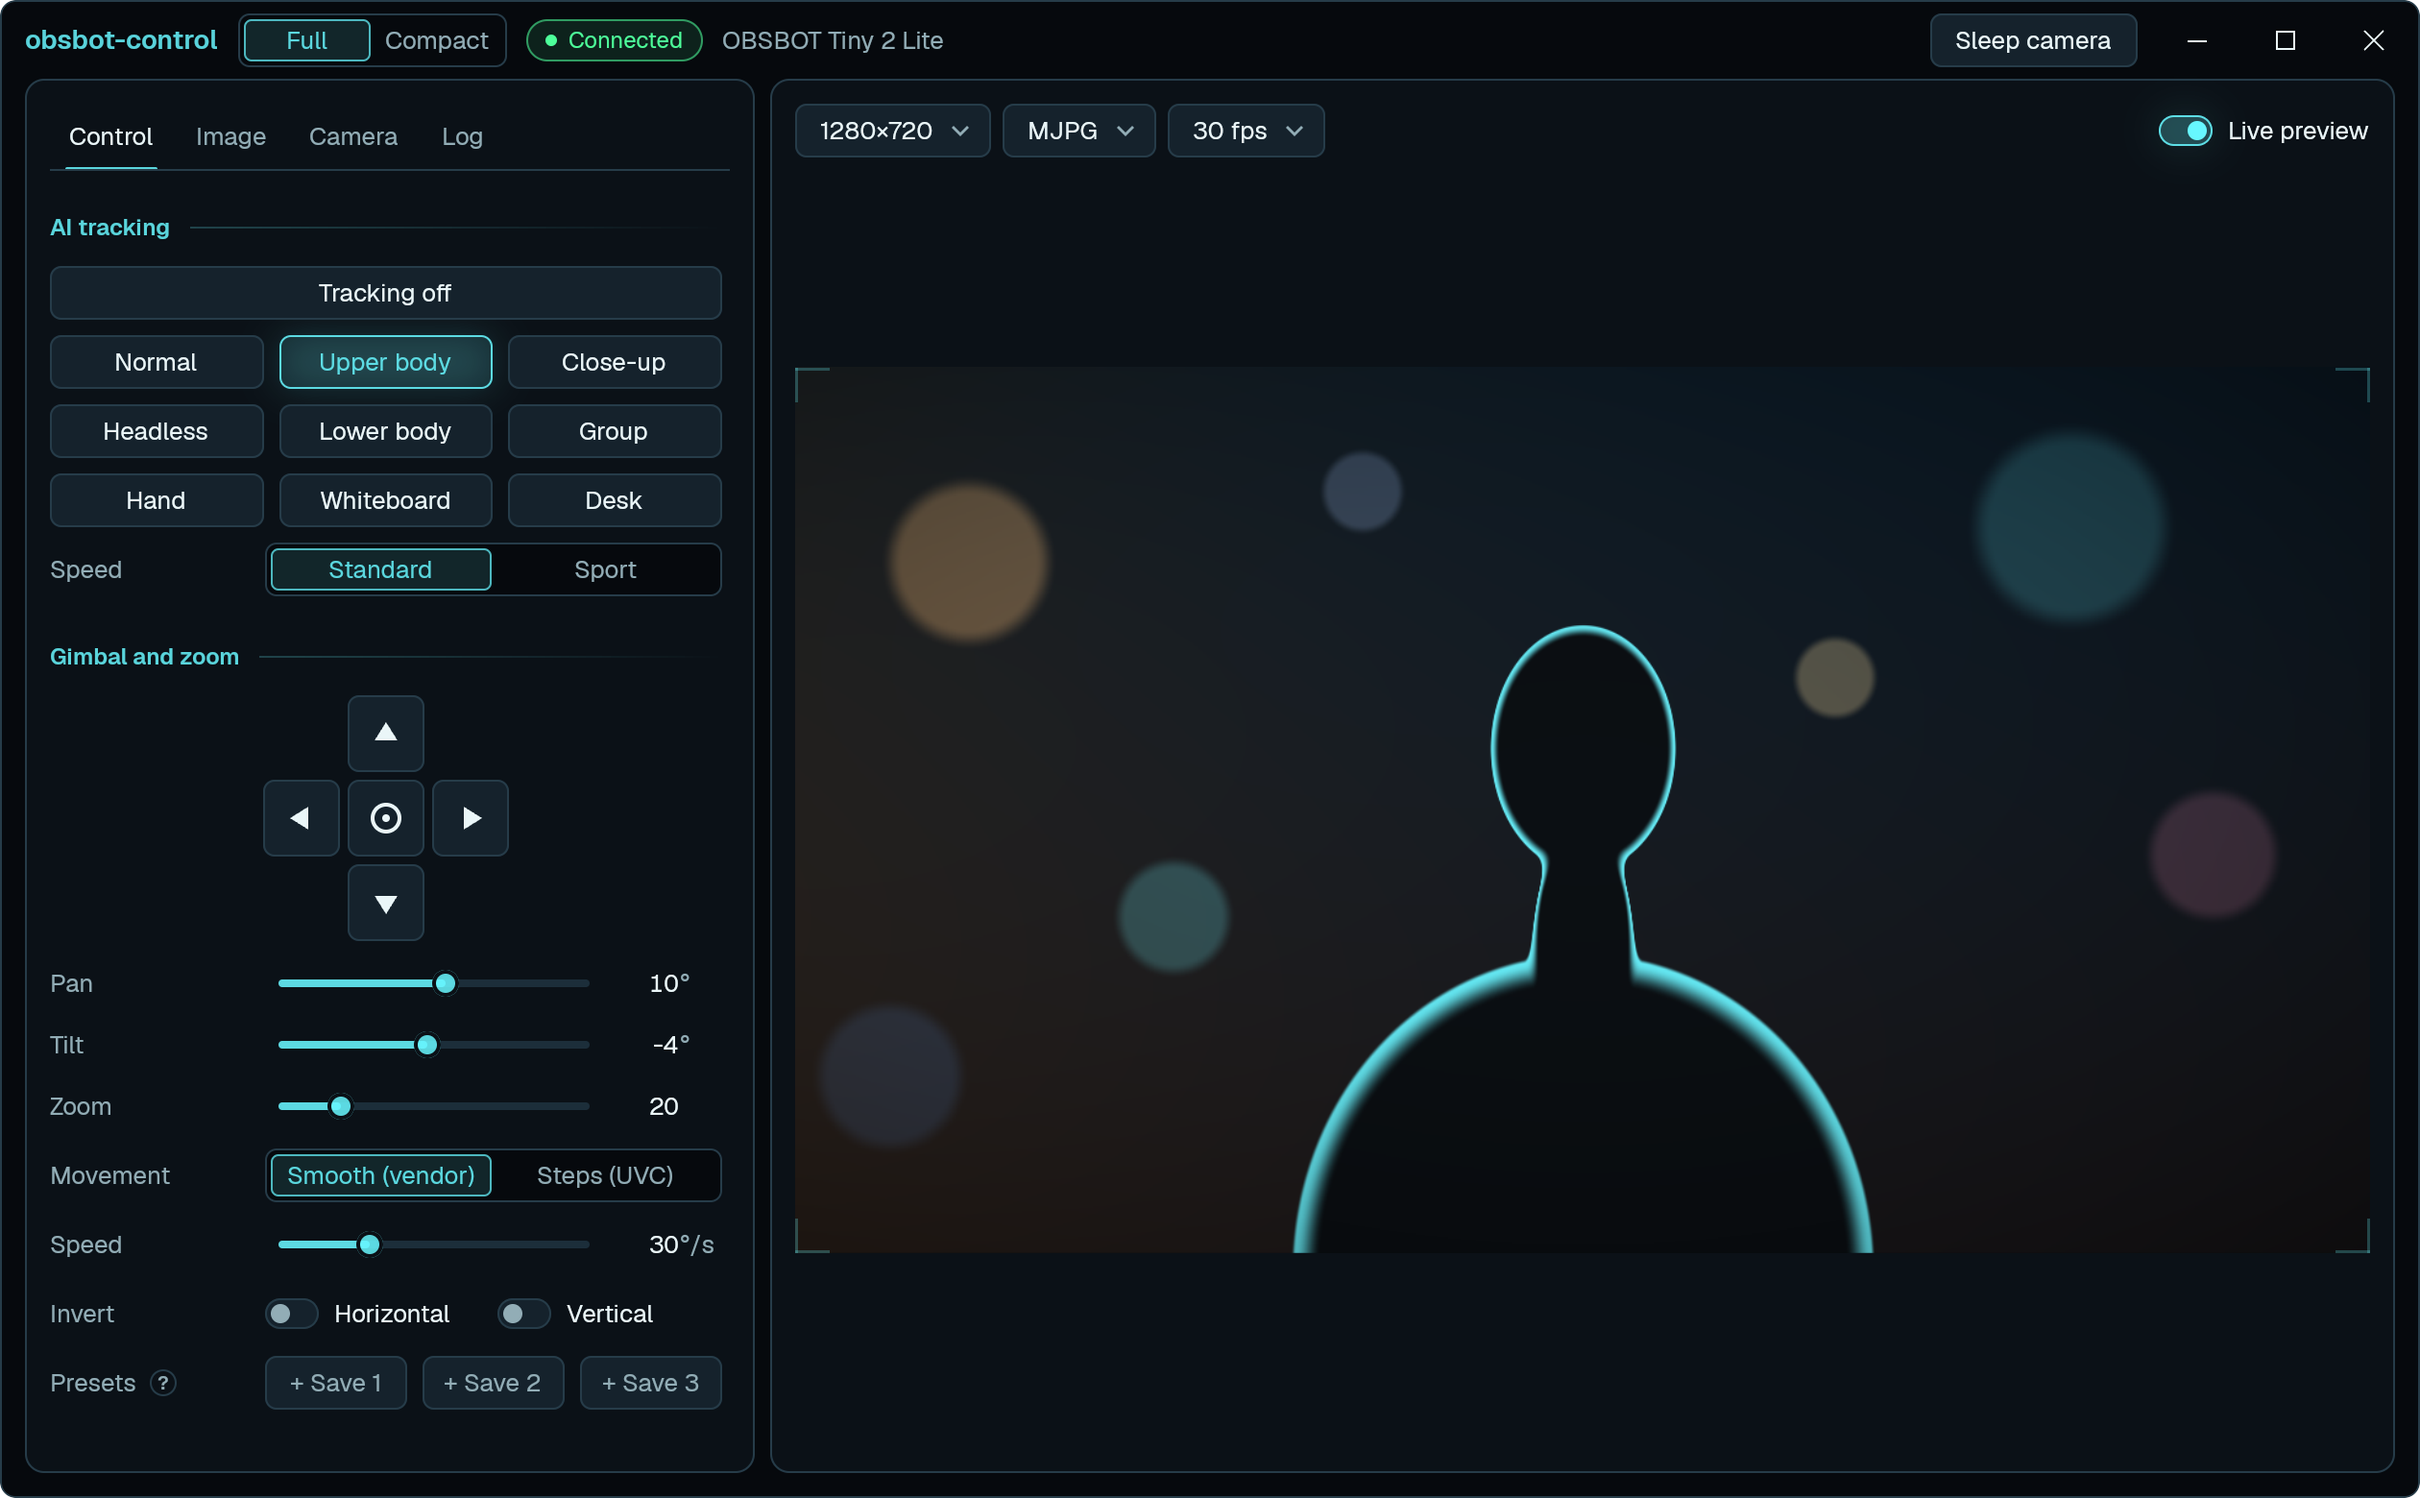
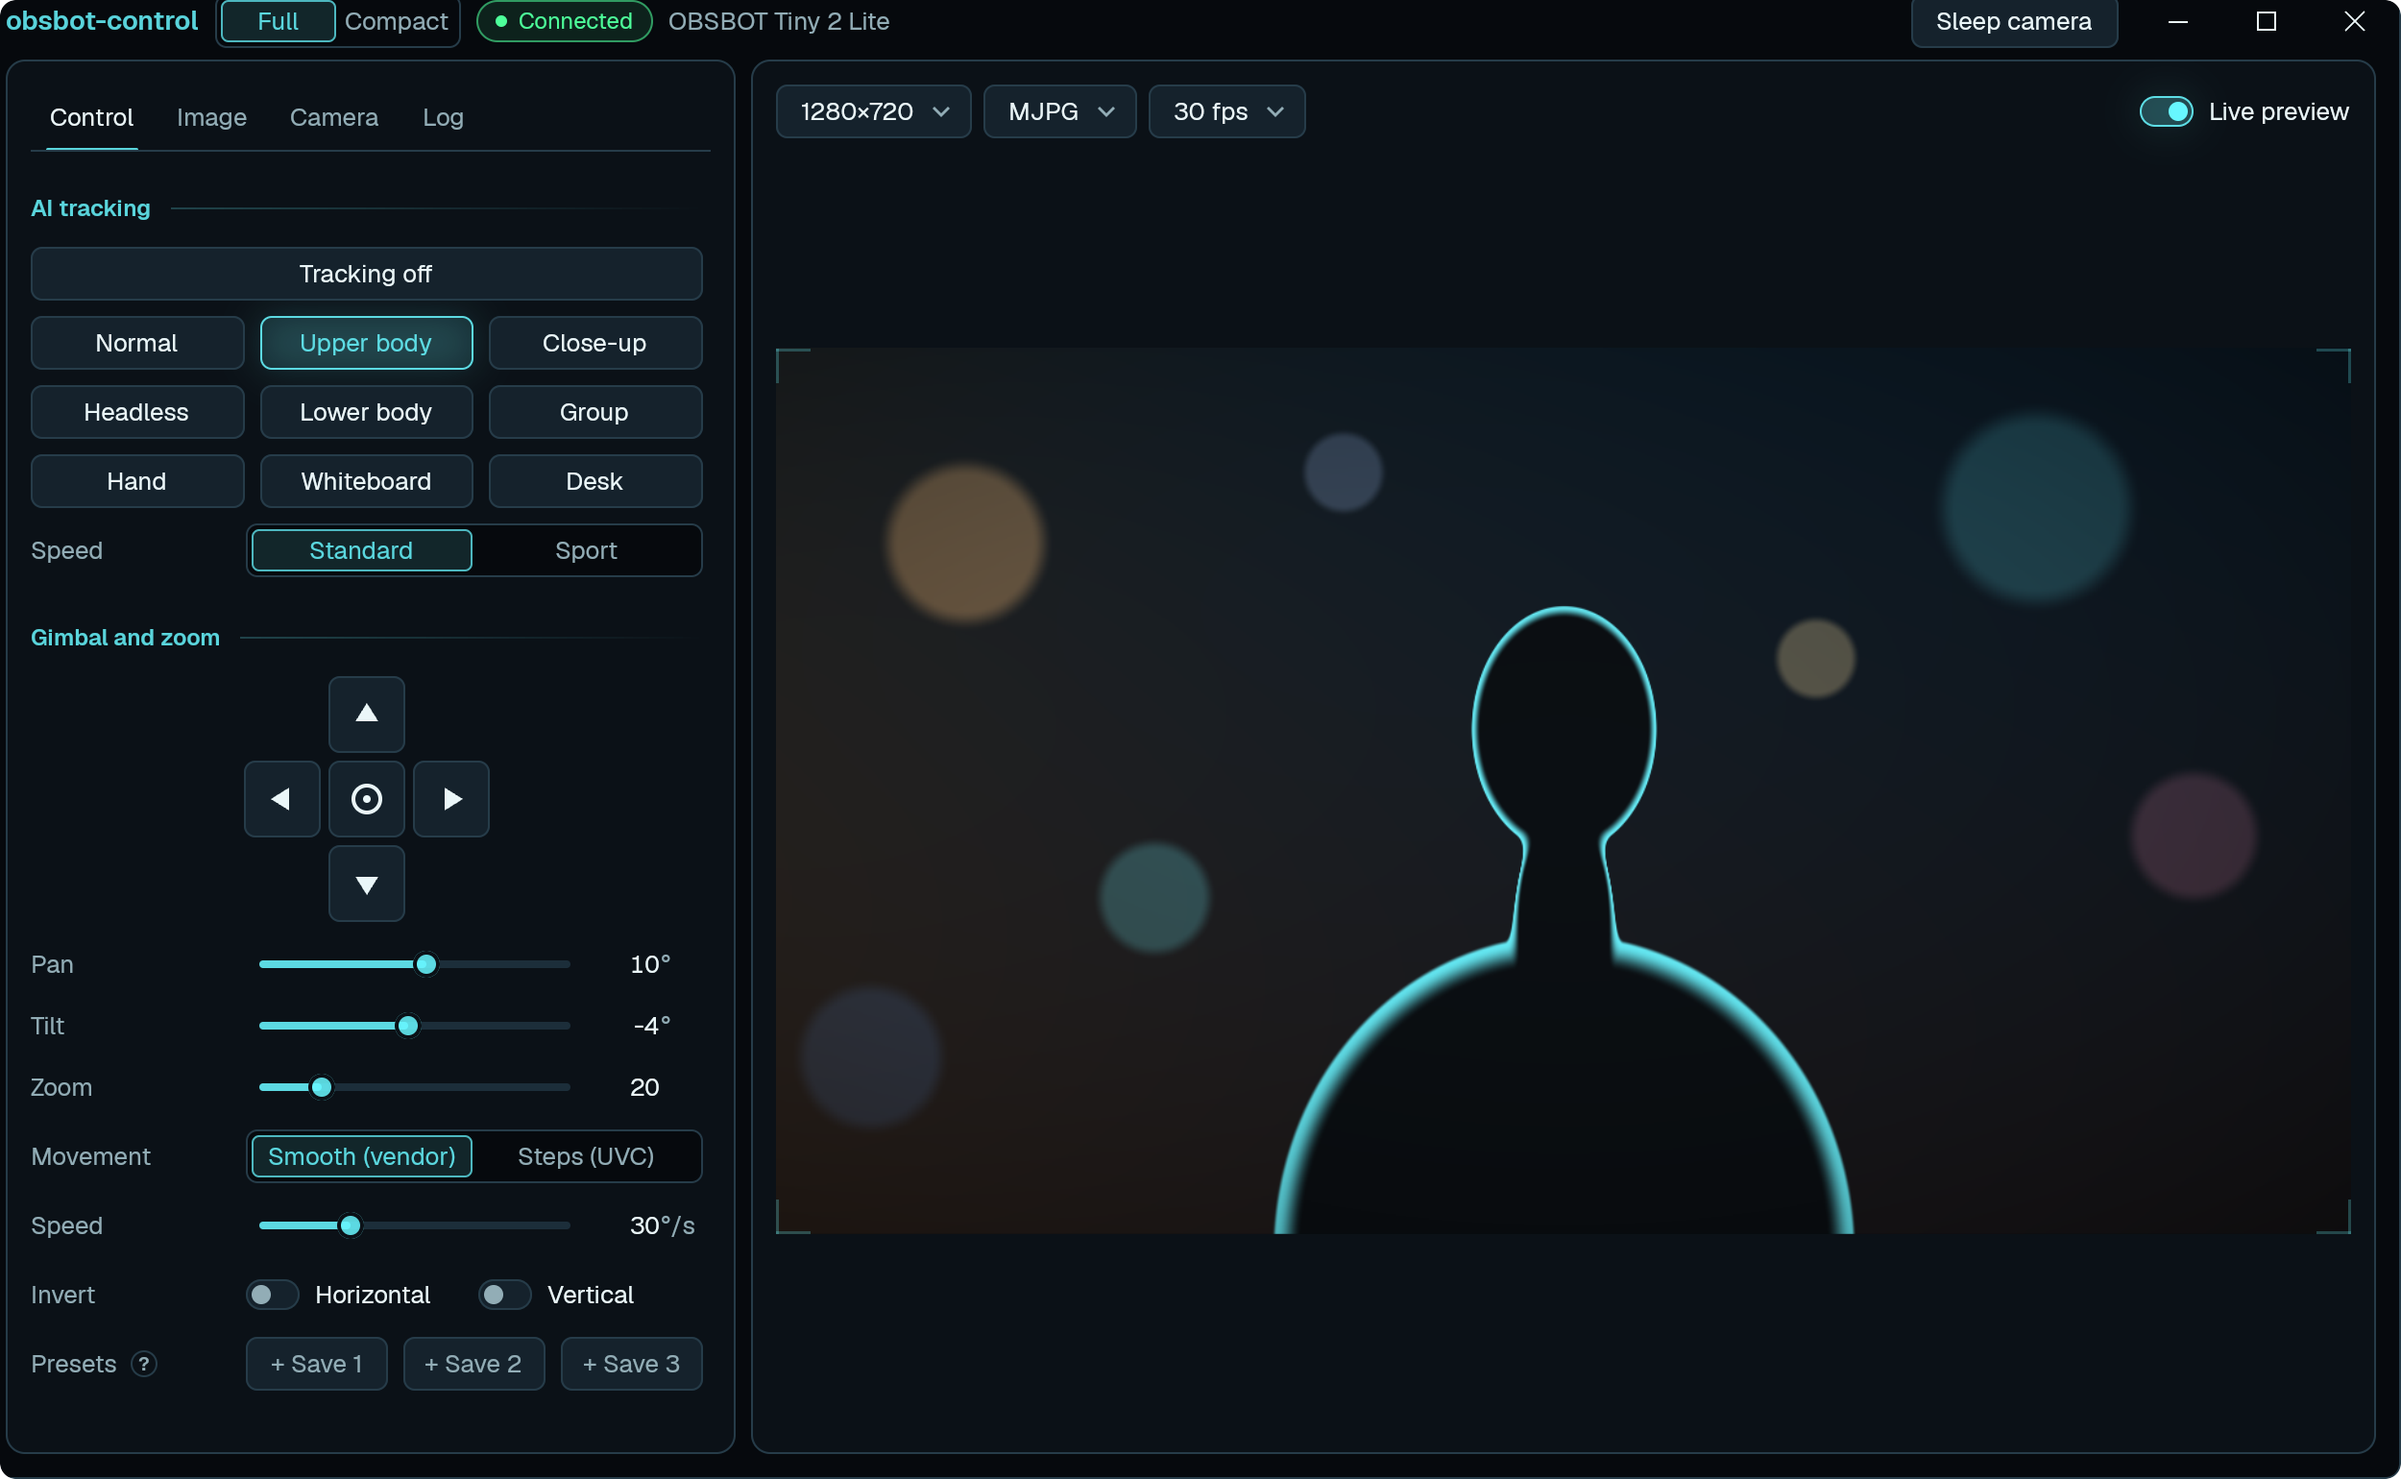
Keep the controls panel the same width in compact view
The panel grew from 380 to 452 px when switching to compact view,
because the compact window had to be wide enough for the whole title
bar. Compact view now drops the maximise button (dragging to a screen
edge, Win+arrow keys and double-clicking the title bar still snap and
maximise), the view switch is 128 px and the moon sits against the
window buttons, so the title bar fits a window that is just the panel
and its padding. COMPACT_WIDTH is now derived from PANEL_WIDTH so the
two can't drift apart.

The minimum window width drops to 400 so Windows can reach it, and on
Linux the content width now leaves out the 1 px window border as well
as the shadow margin, so the panel measures the same in both views.
README screenshots and TESTING.md are updated.

diff --git a/src/ui/mod.rs b/src/ui/mod.rs
@@ -46,8 +46,7 @@ const TICK: Duration = Duration::from_millis(16);
 const IDLE_TICK: Duration = Duration::from_millis(100);
 const USE_CHECK_INTERVAL: Duration = Duration::from_secs(2);
 const STEP_INTERVAL: Duration = Duration::from_millis(150);
-/// Padding around the window's content, and the gap between the preview and the controls.
-const PADDING: f32 = 12.0;
+/// The gap between the preview and the controls.
 const GAP: f32 = 8.0;
 
 /// The window's width without the invisible margins of a client-decorated Linux window.
@@ -1001,9 +1000,9 @@ impl AppView {
 
         let views = ["Full", "Compact"];
         // On the left, like the controls: the window's left edge stays put when it
-        // narrows or widens, so the switch stays under the mouse (COMPACT_WIDTH leaves
-        // room for it). Occluded, so clicks here never start a window drag.
-        let view_switch = div().id("view-switch").flex_none().w(px(140.0)).flex().occlude().child(segmented(
+        // narrows or widens, so the switch stays under the mouse (compact view has no
+        // maximise button, which leaves room for it). Occluded, so clicks here never start a window drag.
+        let view_switch = div().id("view-switch").flex_none().w(px(128.0)).flex().occlude().child(segmented(
             "view",
             &views,
             &[],
@@ -1027,7 +1026,7 @@ impl AppView {
             .flex()
             .flex_1()
             .items_center()
-            .gap(px(10.0))
+            .gap(px(8.0))
             .min_w(px(0.0))
             .overflow_hidden()
             .child(
@@ -1096,15 +1095,17 @@ impl AppView {
             .h(px(titlebar::BAR_HEIGHT))
             .flex()
             .items_center()
-            .gap(px(8.0))
             .pl(px(PADDING))
             .pr(px(if frame.own_bar { 0.0 } else { 12.0 }))
-            .child(left)
-            .child(right)
+            .child(left.mr(px(8.0)))
+            // The window buttons are wide with centred glyphs, so in compact view the moon
+            // can sit right against them to leave the left side room.
+            .child(right.when(frame.own_bar && !self.compact, |d| d.mr(px(8.0))))
             .when(frame.own_bar, |d| {
                 d.child(titlebar::window_buttons(
                     window,
                     frame,
+                    !self.compact,
                     cx.listener(|this, _, window, _| {
                         this.shutdown(window);
                         window.remove_window();

diff --git a/src/ui/titlebar.rs b/src/ui/titlebar.rs
@@ -47,11 +47,12 @@ impl Frame {
         }
     }
 
-    /// The invisible margin on the left and right together (Linux client-side
-    /// decorations only; a tiled edge has none).
+    /// The invisible margin and the window's 1 px border on the left and right together
+    /// (Linux client-side decorations only; a tiled edge has neither), so the content
+    /// width is what's left inside them.
     pub fn horizontal_inset(&self) -> f32 {
         match self.client {
-            Some(tiling) => LINUX_INSET * (!tiling.left as u8 + !tiling.right as u8) as f32,
+            Some(tiling) => (LINUX_INSET + 1.0) * (!tiling.left as u8 + !tiling.right as u8) as f32,
             None => 0.0,
         }
     }
@@ -131,12 +132,14 @@ enum Glyph {
     Close,
 }
 
-/// Minimise, maximise (or restore) and close, flush with the top-right corner.
+/// Minimise, maximise (or restore, unless `show_maximise` is off) and close, flush with the
+/// top-right corner.
 /// `on_close` runs on Linux; on Windows the close goes through the system, which
 /// asks the window's should-close handler as usual.
 pub fn window_buttons(
     window: &Window,
     frame: Frame,
+    show_maximise: bool,
     on_close: impl Fn(&ClickEvent, &mut Window, &mut App) + 'static,
 ) -> impl IntoElement {
     let controls = window.window_controls();
@@ -169,7 +172,7 @@ pub fn window_buttons(
                 .when(!cfg!(windows), |d| d.on_click(|_, window, _| window.minimize_window())),
         );
     }
-    if controls.maximize {
+    if show_maximise && controls.maximize {
         let glyph = if maximised { Glyph::Restore } else { Glyph::Maximise };
         row = row.child(
             button("win-max", glyph, WindowControlArea::Max)

diff --git a/src/ui/theme.rs b/src/ui/theme.rs
@@ -106,6 +106,9 @@ pub const UNIT_WIDTH: f32 = 22.0;
 pub const PANEL_WIDTH: f32 = 380.0;
 /// Below this content width the header uses its short form (see `render_header`).
 pub const HEADER_WIDE: f32 = 700.0;
-/// The window's content width in compact view: the panel and some padding, and room
-/// in the header for the name, view switch, status dot, moon and window buttons.
-pub const COMPACT_WIDTH: f32 = 476.0;
+/// Padding around the window's content.
+pub const PADDING: f32 = 12.0;
+/// The window's content width in compact view: the panel keeps its full-view width, so it
+/// doesn't change size while switching. The header fits in it with the name, view switch,
+/// status dot, moon, minimise and close (no maximise in compact view).
+pub const COMPACT_WIDTH: f32 = PANEL_WIDTH + 2.0 * PADDING;

diff --git a/src/main.rs b/src/main.rs
@@ -99,7 +99,7 @@ fn main() {
         })
         .detach();
 
-        let width = settings.window_w.clamp(460, 4000) as f32;
+        let width = settings.window_w.clamp(400, 4000) as f32;
         let height = settings.window_h.clamp(480, 3000) as f32;
         let bounds = Bounds::centered(None, size(px(width), px(height)), cx);
         let options = WindowOptions {
@@ -113,7 +113,7 @@ fn main() {
             }),
             window_decorations: Some(WindowDecorations::Client),
             app_id: Some("obsbot-control".into()),
-            window_min_size: Some(size(px(460.0), px(480.0))),
+            window_min_size: Some(size(px(400.0), px(480.0))),
             focus: true,
             show: true,
             ..Default::default()

diff --git a/docs/TESTING.md b/docs/TESTING.md
@@ -50,7 +50,7 @@ Some checks use the **Developer** tab. Turn it on with *Camera → Advanced → 
       *Compact* or *Sleep camera* never moves the window.
 - [ ] Double-click the empty header: it maximises; again: it restores. The maximise button switches to the
       restore icon.
-- [ ] Hover the maximise button on Windows 11: the Snap Layouts menu appears. Win+arrow keys snap the window.
+- [ ] In full view, hover the maximise button on Windows 11: the Snap Layouts menu appears. Win+arrow keys snap the window.
 - [ ] Close turns red on hover and closes the app (settings are saved; check the size on the next start).
 - [ ] Maximised, nothing is cut off at the top of the screen.
 
@@ -66,13 +66,15 @@ Some checks use the **Developer** tab. Turn it on with *Camera → Advanced → 
       live picture replaces it within a second or two.
 - [ ] Turn off *Camera → Pause preview*: the preview keeps running while another window is active.
 - [ ] Switch the header to *Compact* by hand: the window narrows smoothly from its right edge while the
-      preview fades out (under a fifth of a second, smooth at the screen's refresh rate). The controls' left edge
-      and the *Full*/*Compact* switch stay where they are. Without moving the mouse, switch back to *Full*: it widens
+      preview fades out (under a fifth of a second, smooth at the screen's refresh rate). The controls keep their
+      width, and their left edge and the *Full*/*Compact* switch stay where they are. Without moving the mouse, switch back to *Full*: it widens
       to its earlier size as the preview fades back in. No flicker or jumping.
 - [ ] During a call, switch back to *Full*: it stays in full view when the call ends.
 - [ ] Maximise the window, then start a call: it un-maximises and goes compact.
 - [ ] Move the window near the right edge of the screen in compact view, then go back to full view: the
       window stays on screen.
+- [ ] In compact view the title bar has minimise and close only; maximise is back in full view. Nothing in
+      the header is cut off.
 - [ ] With the camera connected, the header in compact view fits on one line: the status shows as a dot
       (hover for the text) and the sleep button is a moon icon (amber while asleep). With two cameras, the camera picker moves to its
       own line.
